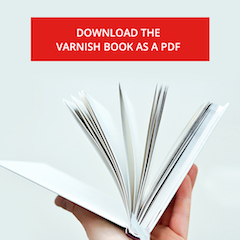
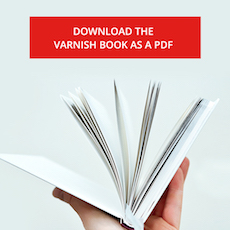
Adding image to download the book as PDF

diff --git a/src/_templates/services.html b/src/_templates/services.html
@@ -1,10 +1,15 @@
-</br>
-<h4>
-<a href="https://www.varnish-software.com/download-varnish-book">
-<img src="_images/download_book.jpg" alt="Download Book for Varnish 4 as PDF">
+<a href="http://www.varnish-software.com/download-varnish-book">
+  <img src="_images/download_book.jpg" alt="Download Book for Varnish 4 as PDF">
 </a>
-</h4>
-</br>
+<h3>Varnish Services</h3>
+<ul>
+  <li>
+    <a href="http://www.varnish-software.com/">Varnish Software</a>
+  </li>
+  <li>
+    <a href="http://training.varnish-software.com/">Varnish Training</a>
+  </li>
+</ul>
 <h3>Varnish Plus</h3>
 <ul>
 <li>
